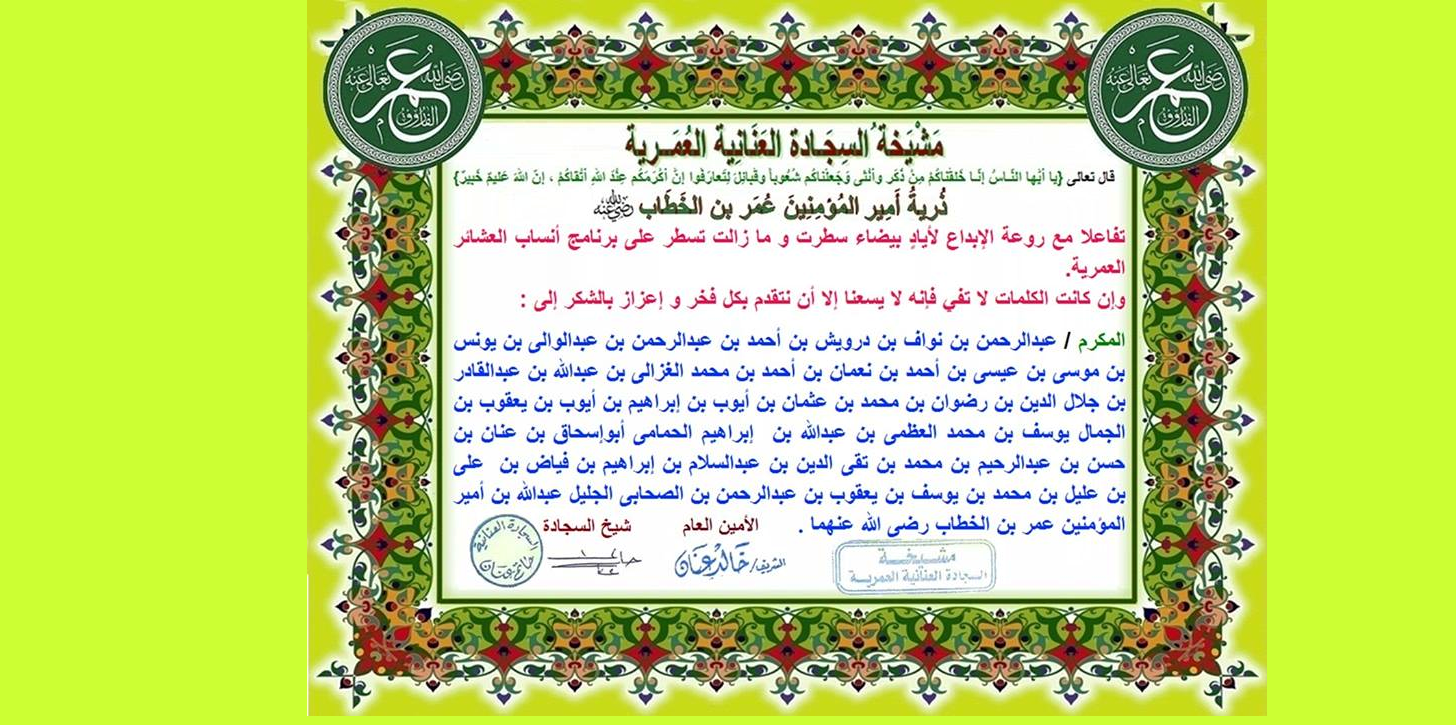
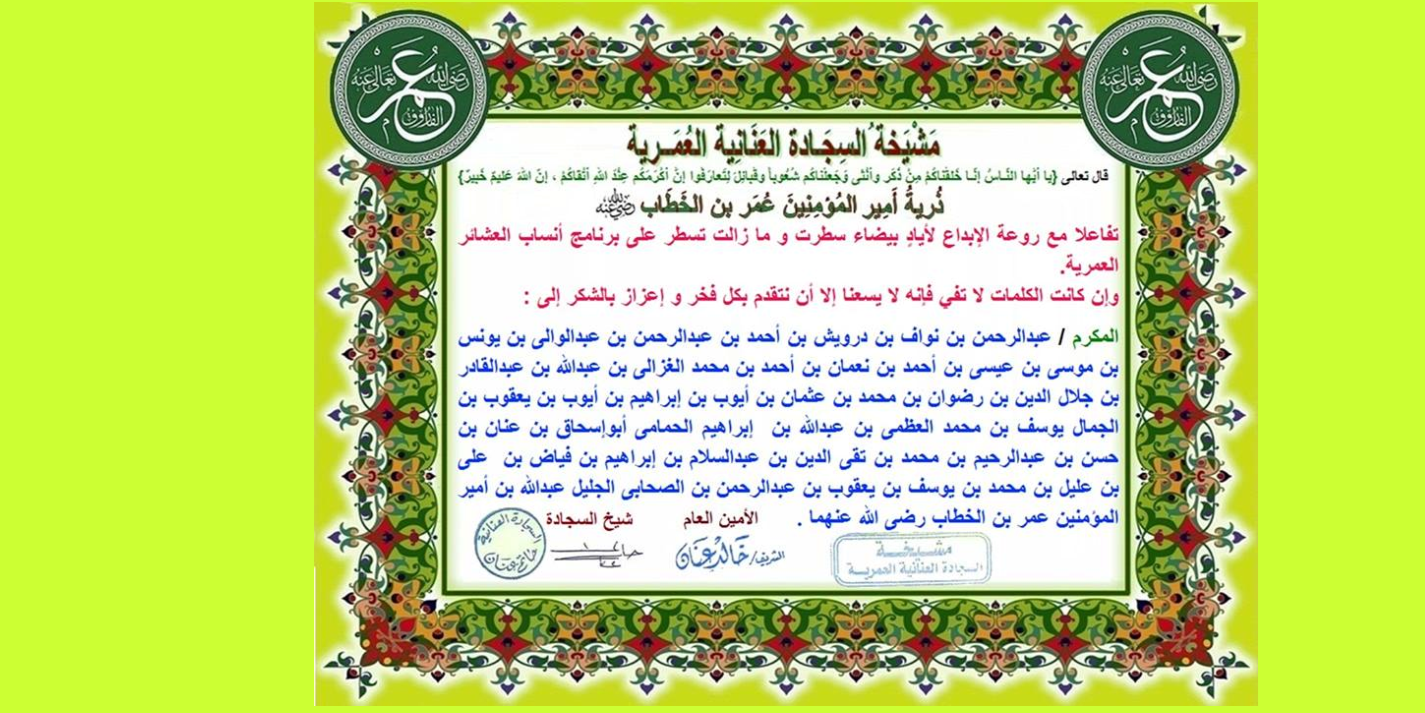
update

diff --git a/W-1.html b/W-1.html
@@ -30,12 +30,12 @@ function FP_getObjectByID(id,o) {//v1.0
 </script>
 </head>
 
-<body style="background-color: #CCFF33" onload="FP_preloadImgs(/*url*/'button3414.gif',/*url*/'buttonA161.gif')">
+<body style="background-color: #CCFF33" onload="FP_preloadImgs(/*url*/'button3416.gif',/*url*/'buttonA162.gif')">
 
-<div id="layer1" style="position: absolute; width: 120px; height: 40px; z-index: 1; left: 20px; top: 25px">
+<div id="layer1" style="position: absolute; width: 115px; height: 35px; z-index: 1; left: 45px; top: 45px">
 	<a href="index.html">
-	<img id="img1" alt="الصفحة الرئيسية" height="23" onmousedown="FP_swapImg(1,0,/*id*/'img1',/*url*/'buttonA161.gif')" onmouseout="FP_swapImg(0,0,/*id*/'img1',/*url*/'button3415.gif')" onmouseover="FP_swapImg(1,0,/*id*/'img1',/*url*/'button3414.gif')" onmouseup="FP_swapImg(0,0,/*id*/'img1',/*url*/'button3414.gif')" src="button3415.gif" style="border: 0" width="115" /><!-- MSComment="ibutton" fp-style="fp-btn: Metal Capsule 3; fp-font-style: Bold; fp-font-size: 8; fp-transparent: 1" fp-title="الصفحة الرئيسية" --></a></div>
-<img alt="" height="725" src="W-1.png" width="1456" />
+	<img id="img1" alt="الصفحة الرئيسية" height="23" onmousedown="FP_swapImg(1,0,/*id*/'img1',/*url*/'buttonA162.gif')" onmouseout="FP_swapImg(0,0,/*id*/'img1',/*url*/'button3417.gif')" onmouseover="FP_swapImg(1,0,/*id*/'img1',/*url*/'button3416.gif')" onmouseup="FP_swapImg(0,0,/*id*/'img1',/*url*/'button3416.gif')" src="button3417.gif" style="border: 0" width="113" /><!-- MSComment="ibutton" fp-style="fp-btn: Metal Capsule 3; fp-font-style: Bold; fp-font-size: 8; fp-transparent: 1" fp-title="الصفحة الرئيسية" --></a></div>
+<img alt="" height="713" src="W-1.png" width="1425" />
 
 </body>
 
